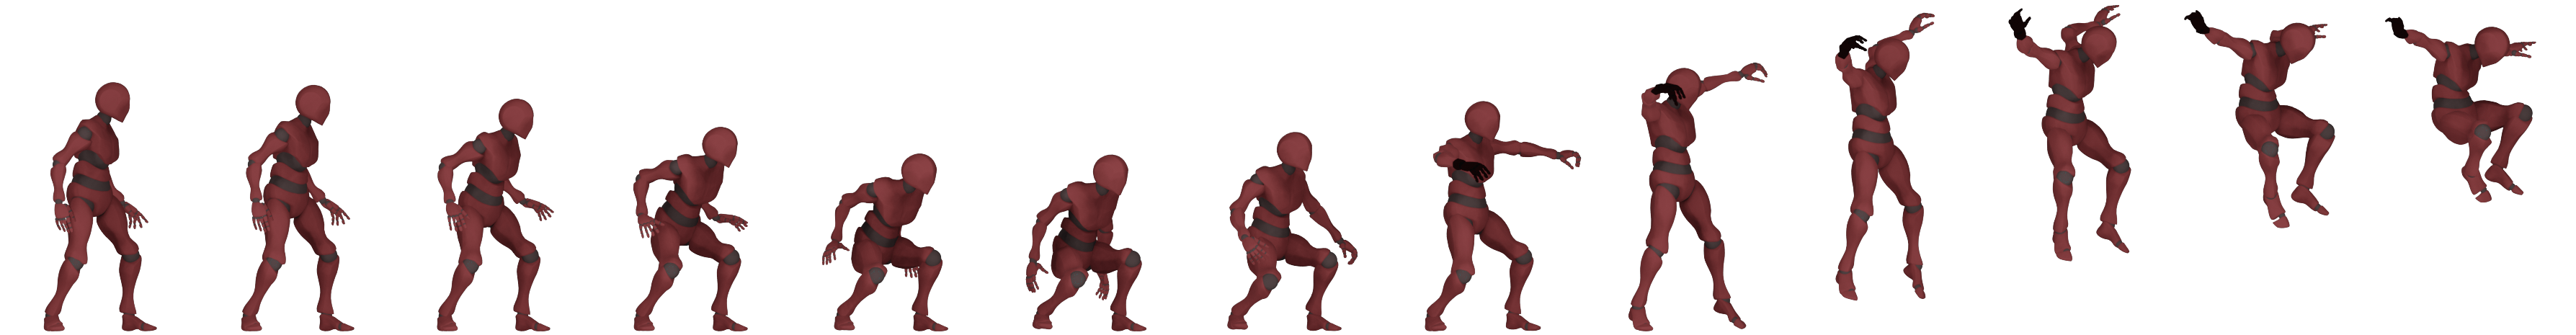
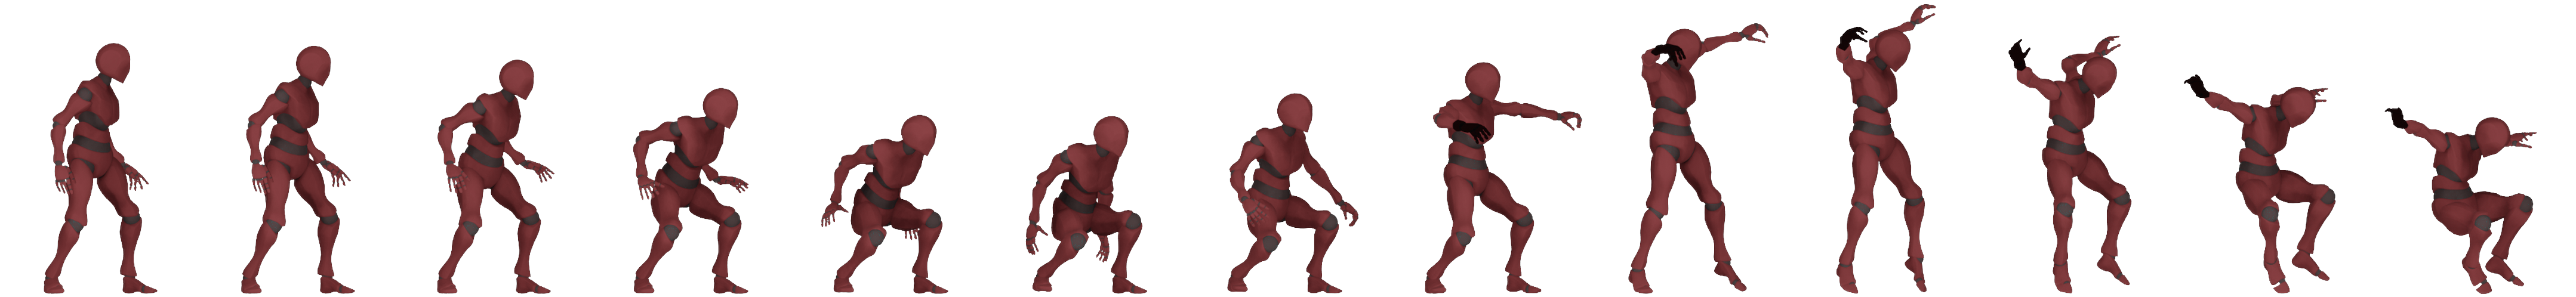
fix: sprong-schaal via ankerH, foot-locked walk, vector-flits vervangen door idle-fallback

diff --git a/src/components/sportbuddy/tools/SparringKooi.jsx b/src/components/sportbuddy/tools/SparringKooi.jsx
@@ -45,7 +45,7 @@ const SPRITE_DEFS = {
   blok_laag:   { file: "blok_laag.png",   frames: 4,  fps: 12, loop: false },
   stagger:     { file: "stagger.png",     frames: 11, fps: 16, loop: false },
   dash:        { file: "dash.png",        frames: 6,  fps: 18, loop: false },
-  sprong:      { file: "sprong.png",      frames: 13, fps: 14, loop: false },
+  sprong:      { file: "sprong.png",      frames: 13, fps: 14, loop: false, ankerH: 439 },
 };
 const SPRITE_HOOGTE = 118;                       // doelhoogte van de avatar in wereld-pixels
 const _spriteCache = {};                         // "team/naam" -> Image | "laden" | "mist"
@@ -94,6 +94,7 @@ const BLOCK_BALANS = 18, SCHAMP_BALANS = 8;
 const STAGGER_HIT = 0.42, STAGGER_GUARD = 0.8, STAGGER_SCHAMP = 0.2;
 const HIT_ATP = 8, LACTAAT_SLAG = 4, LACTAAT_SCHOP = 7, LACTAAT_DECAY = 4;
 const KNOCKBACK = 60;                         // ruimte na een treffer (tegen hoek-vastzitten)
+const WALK_STAP_PX = 150;                     // wereld-px die 1 walk-cyclus (11 fr) aflegt; hoger=trager voetentempo. Stel bij tot voeten niet glijden
 /* sprong (z-as): boog met horizontale snelheid -> je vliegt echt over de tegenstander */
 const JUMP_PCR = 20, JUMP_GLYC = 10, JUMP_VZ = 520, GRAV = 1150, OVER_Z = 52, JUMP_HOR = 340;
 /* vrije combo: tijdens de recovery opnieuw slaan/schoppen rijgt de volgende hit eraan */
@@ -396,7 +397,10 @@ export default function SparringKooi() {
 
     gs.fighters.forEach((f) => {
       f.dashCd = Math.max(0, f.dashCd - dt); f.iframe = Math.max(0, f.iframe - dt); f.openT = Math.max(0, f.openT - dt);
-      const an = animNaam(f); if (an !== f.animNaam) { f.animNaam = an; f.animT = 0; } else f.animT += dt;
+      const an = animNaam(f);
+      if (an !== f.animNaam) { f.animNaam = an; f.animT = 0; }
+      else if (an === "walk") f.animT += (Math.abs(f.vx) / WALK_STAP_PX) * dt;   // foot-lock: cyclus volgt afstand, geen glijden
+      else f.animT += dt;
       if (f.comboT > 0) f.comboT -= dt;
       f.comboCharge = clamp(f.comboCharge + dt / COMBO_RECHARGE, 0, 1);   // signature-combo laadt op
       // sprong / z-as
@@ -886,10 +890,12 @@ function tekenVechterSprite(ctx, f) {
     const basis = naam.split("_")[0];
     if (SPRITE_DEFS[basis]) { naam = basis; d = SPRITE_DEFS[basis]; img = spriteVan(f.team, basis); }
   }
-  if (!img) return false;
+  if (!img) { naam = "idle"; d = SPRITE_DEFS.idle; img = spriteVan(f.team, "idle"); }   // geen vector-flits meer: val terug op idle
+  if (!img) return false;                                // vangnet: alleen als zelfs idle nog laadt
   const fw = img.width / d.frames, fh = img.height;
   const idx = d.loop ? Math.floor(f.animT * d.fps) % d.frames : Math.min(Math.floor(f.animT * d.fps), d.frames - 1);
-  const sc = SPRITE_HOOGTE / fh, dw = fw * sc, dh = SPRITE_HOOGTE;
+  const ankerH = d.ankerH || fh;                         // sheets met sprongboog schalen op sta-pose ipv framehoogte
+  const sc = SPRITE_HOOGTE / ankerH, dw = fw * sc, dh = fh * sc;
   ctx.save(); ctx.translate(f.x, GROUND - f.z); ctx.scale(f.facing, 1);
   ctx.imageSmoothingEnabled = true;
   ctx.drawImage(img, idx * fw, 0, fw, fh, -dw / 2, -dh, dw, dh);